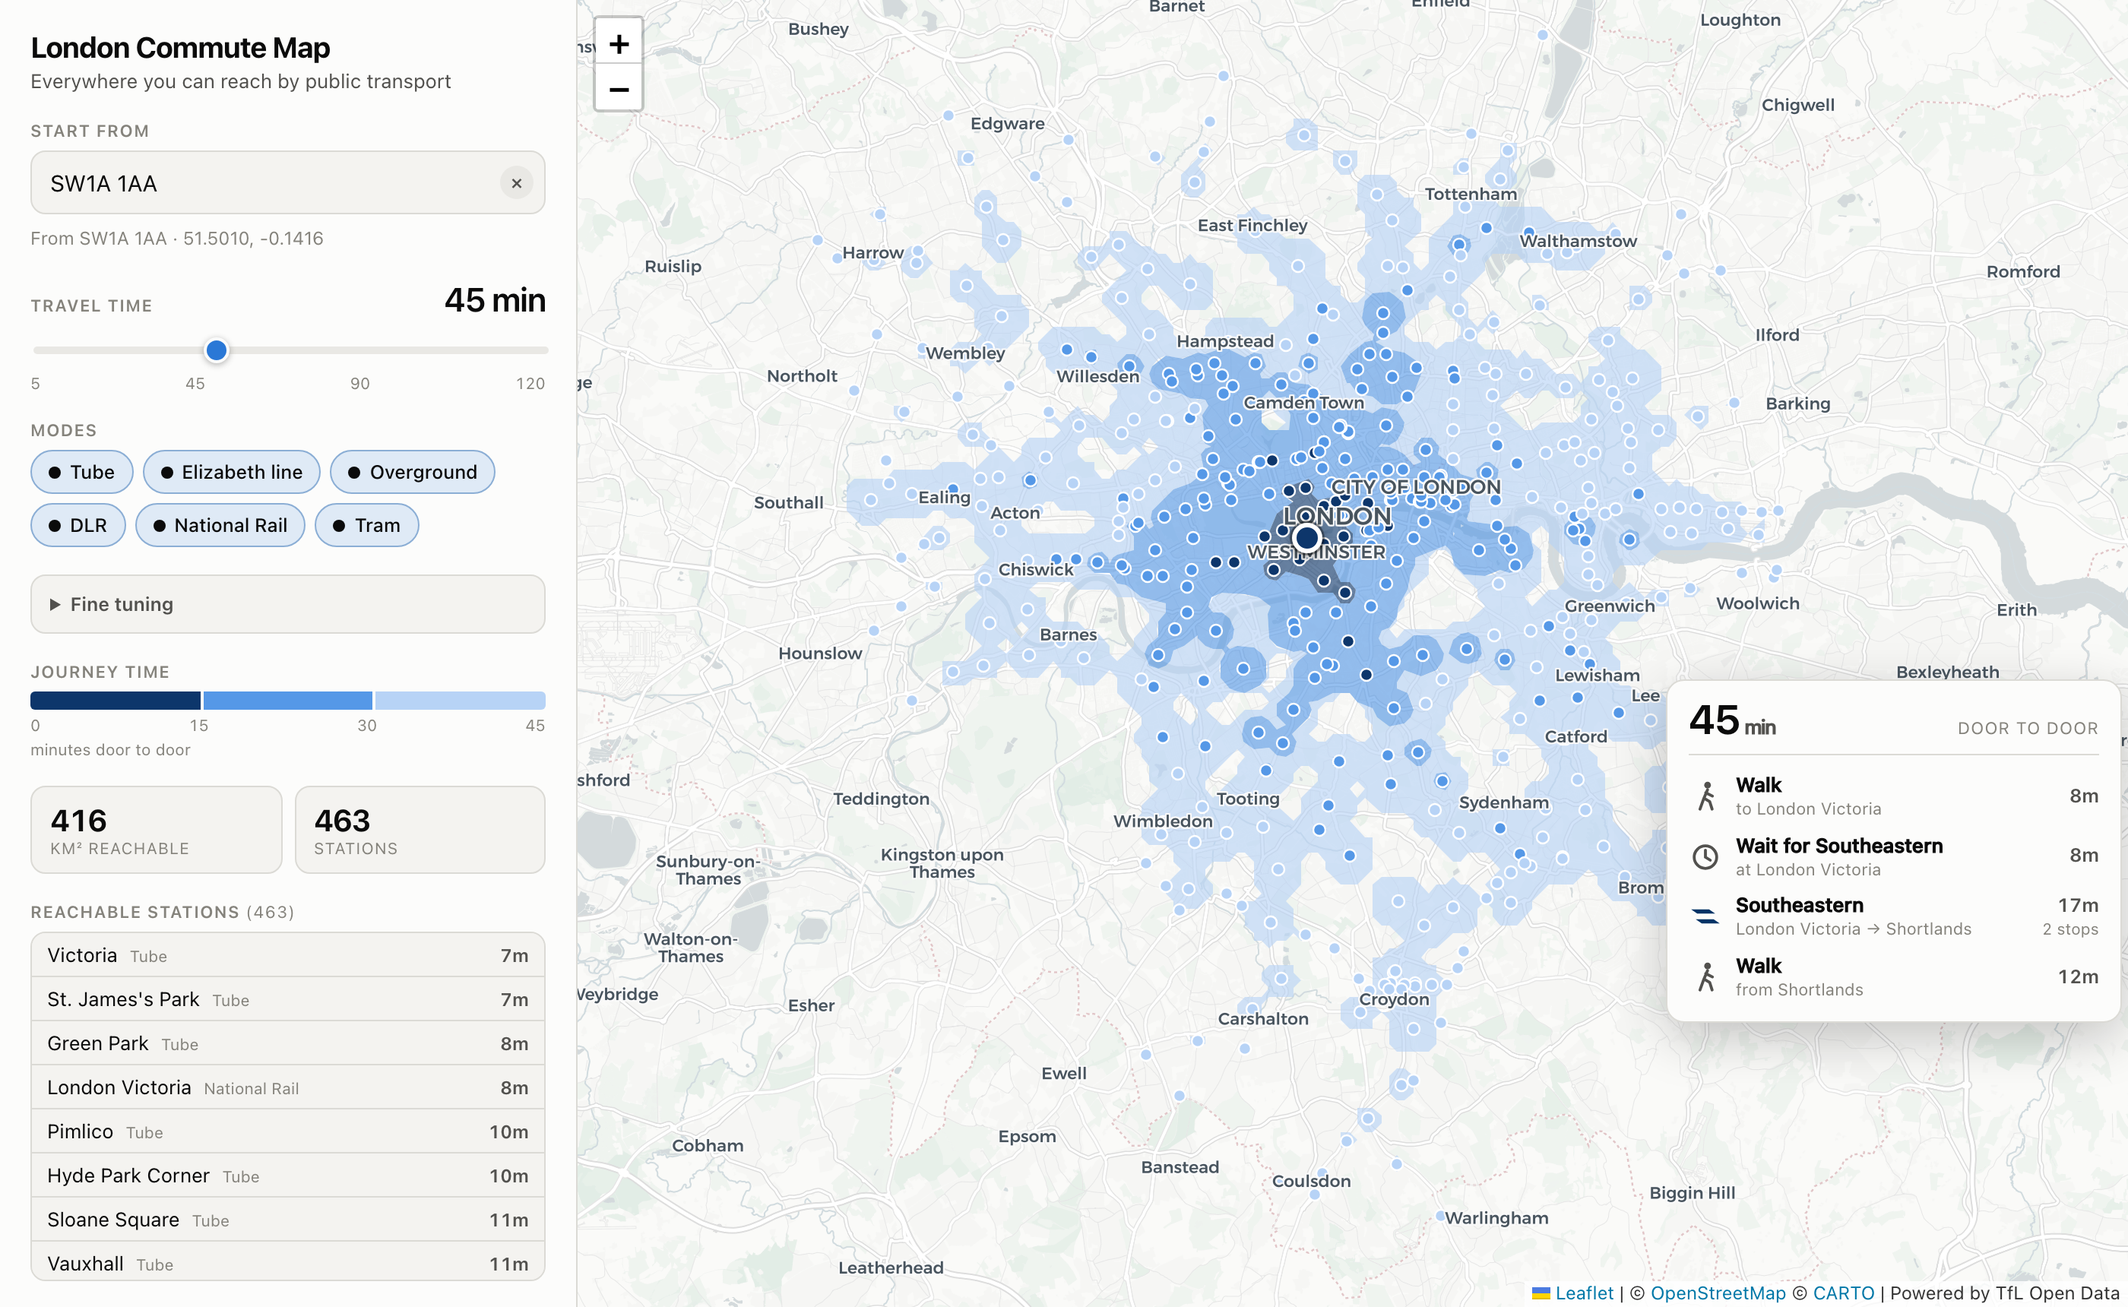
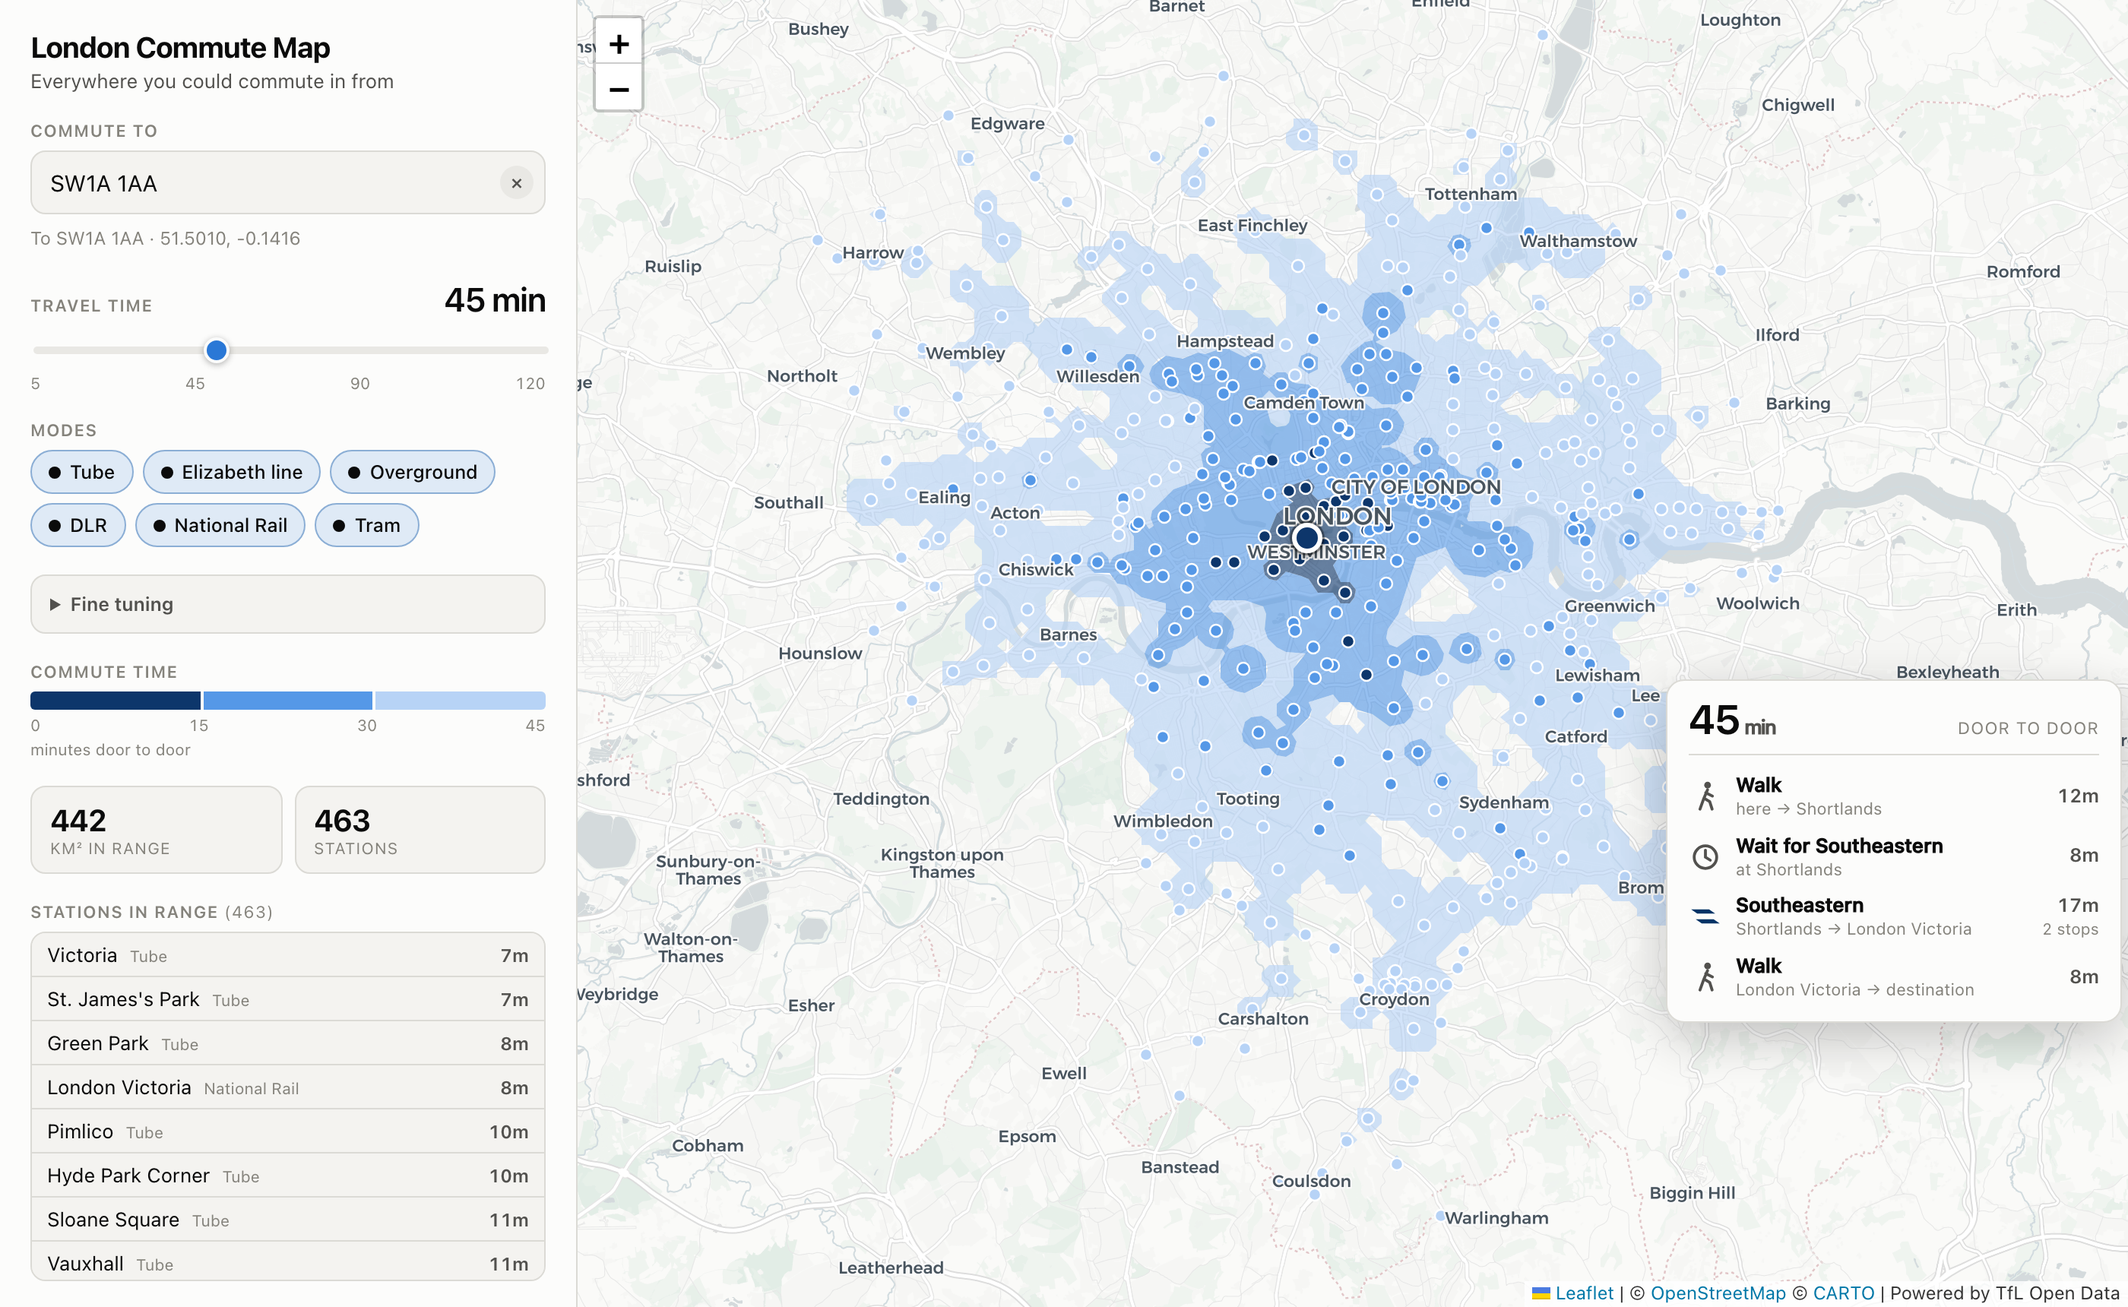
Present journeys inbound: hovered point -> your address
The framing was backwards. You pick a destination (a workplace, say) and
the map shades where you could commute in *from*, so a hovered spot's
itinerary should read from there into your address, not out of it.

The router still works outward from the destination — every edge and
interchange is symmetric, so the times are identical either way — and
probe() now flips the itinerary before returning it. Reversing order and
swapping each leg's endpoints is most of it; waits are the fiddly part,
since a wait belongs before the ride it's for and you board at the other
end of that ride once reversed, so each wait moves with its ride and
re-anchors to the flipped boarding station.

What genuinely isn't symmetric is the two walking limits, so they're now
bound to the ends a commuter thinks in: "max walk to the first stop" at
their end, "max walk at your destination" at yours. This shifts the
shaded area slightly, which is correct.

Also fixes the total drifting from the sum of legs when a sub-3-second
walk was filtered out but its time left in.

diff --git a/src/main.ts b/src/main.ts
@@ -31,10 +31,10 @@ const el = {
   serviceOut: $('service-out'),
   walk: $<HTMLInputElement>('walk'),
   walkOut: $('walk-out'),
-  access: $<HTMLInputElement>('access'),
-  accessOut: $('access-out'),
-  egress: $<HTMLInputElement>('egress'),
-  egressOut: $('egress-out'),
+  walkHome: $<HTMLInputElement>('walk-home'),
+  walkHomeOut: $('walk-home-out'),
+  walkDest: $<HTMLInputElement>('walk-dest'),
+  walkDestOut: $('walk-dest-out'),
   change: $<HTMLInputElement>('change'),
   changeOut: $('change-out'),
   showStations: $<HTMLInputElement>('show-stations'),
@@ -51,7 +51,7 @@ const el = {
 
 // ----------------------------------------------------------------- state
 
-let origin = { lat: 51.5074, lon: -0.1278, label: 'Charing Cross' }; // central London
+let destination = { lat: 51.5074, lon: -0.1278, label: 'Charing Cross' }; // central London
 let stationRefs: StationRef[] = [];
 let ready = false;
 let requestId = 0;
@@ -61,7 +61,7 @@ let pending = false;
 // ------------------------------------------------------------------- map
 
 const map = L.map('map', {
-  center: [origin.lat, origin.lon],
+  center: [destination.lat, destination.lon],
   zoom: 11,
   zoomControl: true,
   minZoom: 8,
@@ -122,21 +122,21 @@ L.tileLayer(
 
 const stationLayer = L.layerGroup().addTo(map);
 
-const originMarker = L.marker([origin.lat, origin.lon], {
+const originMarker = L.marker([destination.lat, destination.lon], {
   draggable: true,
   icon: L.divIcon({ className: '', html: '<div class="origin-pin"></div>', iconSize: [20, 20], iconAnchor: [10, 10] }),
   zIndexOffset: 1000,
 }).addTo(map);
 
-originMarker.bindTooltip('Drag me, or click anywhere on the map', { className: 'stn', direction: 'top', offset: [0, -12] });
+originMarker.bindTooltip('Your destination — drag me, or click anywhere on the map', { className: 'stn', direction: 'top', offset: [0, -12] });
 
 originMarker.on('dragend', () => {
   const { lat, lng } = originMarker.getLatLng();
-  setOrigin(lat, lng, 'Pinned location');
+  setDestination(lat, lng, 'Pinned location');
 });
 
 map.on('click', (e: L.LeafletMouseEvent) => {
-  setOrigin(e.latlng.lat, e.latlng.lng, 'Pinned location');
+  setDestination(e.latlng.lat, e.latlng.lng, 'Pinned location');
 });
 
 function cssVar(name: string) {
@@ -190,8 +190,10 @@ function options(): RouteOptions {
   return {
     maxTime: +el.time.value,
     walkSpeed: +el.walk.value,
-    maxAccessWalk: +el.access.value,
-    maxEgressWalk: +el.egress.value,
+    // The router works outward from the chosen destination, so its access walk
+    // is the one at that end and its egress walk is the commuter's home end.
+    maxAccessWalk: +el.walkDest.value,
+    maxEgressWalk: +el.walkHome.value,
     transferPenalty: +el.change.value,
     serviceFactor: SERVICE_FACTORS[+el.service.value - 1],
     modes: MODES.filter((m) => ($(`mode-${m}`) as HTMLInputElement | null)?.checked),
@@ -203,7 +205,7 @@ function schedule() {
   if (inFlight) { pending = true; return; }
   inFlight = true;
   requestId++;
-  worker.postMessage({ type: 'compute', id: requestId, origin, opt: options() });
+  worker.postMessage({ type: 'compute', id: requestId, origin: destination, opt: options() });
 }
 
 el.modes.innerHTML = MODES.map((m) => `
@@ -216,13 +218,13 @@ const syncLabels = () => {
   el.timeOut.textContent = `${el.time.value} min`;
   el.serviceOut.textContent = SERVICE_LABELS[+el.service.value - 1];
   el.walkOut.textContent = `${(+el.walk.value).toFixed(1)} km/h`;
-  el.accessOut.textContent = `${el.access.value} min`;
-  el.egressOut.textContent = `${el.egress.value} min`;
+  el.walkHomeOut.textContent = `${el.walkHome.value} min`;
+  el.walkDestOut.textContent = `${el.walkDest.value} min`;
   el.changeOut.textContent = `${el.change.value} min`;
 };
 syncLabels();
 
-for (const input of [el.time, el.service, el.walk, el.access, el.egress, el.change]) {
+for (const input of [el.time, el.service, el.walk, el.walkHome, el.walkDest, el.change]) {
   input.addEventListener('input', () => { syncLabels(); schedule(); });
 }
 el.modes.addEventListener('change', schedule);
@@ -327,13 +329,13 @@ el.clear.addEventListener('click', () => {
 function choose(p: Place) {
   el.search.value = p.label;
   closeSuggestions();
-  setOrigin(p.lat, p.lon, p.label, true);
+  setDestination(p.lat, p.lon, p.label, true);
 }
 
-function setOrigin(lat: number, lon: number, label: string, recentre = false) {
-  origin = { lat, lon, label };
+function setDestination(lat: number, lon: number, label: string, recentre = false) {
+  destination = { lat, lon, label };
   originMarker.setLatLng([lat, lon]);
-  el.originNote.textContent = `From ${label} · ${lat.toFixed(4)}, ${lon.toFixed(4)}`;
+  el.originNote.textContent = `To ${label} · ${lat.toFixed(4)}, ${lon.toFixed(4)}`;
   // Picking a new place frames its reachable area; dragging the pin or moving
   // the slider leaves the view alone, which would otherwise be jarring.
   if (recentre) fitPending = true;
@@ -356,7 +358,7 @@ function render(res: ComputeResult) {
     if (bounds.isValid()) {
       map.fitBounds(bounds, { padding: [30, 30], maxZoom: 13, animate: true });
     } else {
-      map.setView([origin.lat, origin.lon], 12, { animate: true });
+      map.setView([destination.lat, destination.lon], 12, { animate: true });
     }
   }
 
@@ -366,7 +368,7 @@ function render(res: ComputeResult) {
   drawStations(res.stations);
 
   el.stats.innerHTML = `
-    <div class="stat"><div class="v">${res.stats.areaKm2.toLocaleString()}</div><div class="k">km² reachable</div></div>
+    <div class="stat"><div class="v">${res.stats.areaKm2.toLocaleString()}</div><div class="k">km² in range</div></div>
     <div class="stat"><div class="v">${res.stats.stationCount}</div><div class="k">stations</div></div>`;
 
   el.stationCount.textContent = res.stations.length ? `(${res.stations.length})` : '';
@@ -496,11 +498,10 @@ function legRow(leg: Leg, minutes: number, compact: boolean): string {
       title = 'Change';
       sub = `at ${leg.from}`;
     } else {
+      // Legs run inbound, so a missing end is the hovered spot at the start and
+      // the chosen destination at the finish.
       title = 'Walk';
-      if (leg.to && leg.from) sub = `${leg.from} → ${leg.to}`;
-      else if (leg.to) sub = `to ${leg.to}`;
-      else if (leg.from) sub = `from ${leg.from}`;
-      else sub = 'the whole way';
+      sub = `${leg.from ?? 'here'} → ${leg.to ?? 'destination'}`;
     }
   } else if (leg.kind === 'wait') {
     title = `Wait for ${leg.lineName}`;
@@ -538,7 +539,7 @@ function drawHoverCard(res: ProbeResult) {
         <span class="ht-k">no route</span>
       </div>
       <div class="legs"><div class="leg-none">
-        No station within a ${el.egress.value} min walk of here.
+        No station within a ${el.walkHome.value} min walk of here.
       </div></div>`;
   } else {
     const total = Math.round(j.total);
@@ -577,4 +578,4 @@ function escapeHtml(s: string) {
     ({ '&': '&amp;', '<': '&lt;', '>': '&gt;', '"': '&quot;', "'": '&#39;' }[c]!));
 }
 
-setOrigin(origin.lat, origin.lon, origin.label);
+setDestination(destination.lat, destination.lon, destination.label);

diff --git a/src/engine.ts b/src/engine.ts
@@ -193,11 +193,14 @@ export class Engine {
   }
 
   /**
-   * The actual journey to a point on the map: walk, wait, ride, ..., walk.
+   * The commute from a point on the map *into* the chosen address: walk, wait,
+   * ride, ..., walk.
    *
-   * Picks whichever station gets there soonest (or pure walking, if that wins),
-   * then walks the Dijkstra predecessor chain back to the origin and groups
-   * consecutive hops on one line into a single ride leg.
+   * The router itself works outward from the address, so this picks whichever
+   * station reaches the point soonest (or pure walking, if that wins), walks the
+   * predecessor chain back, groups consecutive hops on one line into a ride, and
+   * then flips the whole thing inbound. Times are unchanged by the flip because
+   * every edge and interchange in the graph is symmetric.
    */
   probe(ptLat: number, ptLon: number, res: RouteResult, opt: RouteOptions): Journey | null {
     const mPerMin = (opt.walkSpeed * 1000) / 60;
@@ -287,11 +290,12 @@ export class Engine {
       legs.push({ kind: 'walk', minutes: bestEgress, from: this.names[bestStation], to: null });
     }
 
-    return {
-      total: bestTotal,
-      reachable: bestTotal <= opt.maxTime,
-      legs: legs.filter((l) => l.kind !== 'walk' || l.minutes > 0.05),
-    };
+    // Drop walks too short to be worth a row, then take the total from what's
+    // left — otherwise a few dropped seconds leave the legs not summing to it.
+    const kept = legs.filter((l) => l.kind !== 'walk' || l.minutes > 0.05);
+    const total = kept.reduce((sum, l) => sum + l.minutes, 0);
+
+    return { total, reachable: total <= opt.maxTime, legs: inbound(kept) };
   }
 
   /**
@@ -341,6 +345,43 @@ export class Engine {
 
     return { values, rows, cols, latStep, lonStep };
   }
+}
+
+/**
+ * Turn an outbound itinerary (address -> point) into the inbound commute
+ * (point -> address).
+ *
+ * Reversing the order and swapping each leg's endpoints is most of it. Waits are
+ * the fiddly part: a wait belongs *before* the ride it's for, and you board at
+ * the other end of that ride once it's reversed — so each wait moves with its
+ * ride and re-anchors to the reversed boarding station.
+ */
+function inbound(legs: RawLeg[]): RawLeg[] {
+  const out: RawLeg[] = [];
+
+  for (let i = legs.length - 1; i >= 0; i--) {
+    const leg = legs[i];
+
+    if (leg.kind === 'walk') {
+      out.push({ ...leg, from: leg.to, to: leg.from });
+      continue;
+    }
+
+    if (leg.kind === 'ride') {
+      const flipped: RawLeg = { ...leg, from: leg.to, to: leg.from };
+      const before = legs[i - 1];
+      if (before?.kind === 'wait') {
+        out.push({ ...before, at: flipped.from });
+        i--; // consumed alongside its ride
+      }
+      out.push(flipped);
+      continue;
+    }
+
+    out.push(leg); // a wait with no ride after it shouldn't happen, but keep it
+  }
+
+  return out;
 }
 
 export function metres(aLat: number, aLon: number, bLat: number, bLon: number) {

diff --git a/index.html b/index.html
@@ -3,8 +3,8 @@
 <head>
   <meta charset="utf-8" />
   <meta name="viewport" content="width=device-width, initial-scale=1, maximum-scale=5" />
-  <title>London Commute Map — where can I get to?</title>
-  <meta name="description" content="See everywhere in London you can reach by public transport within a given time." />
+  <title>London Commute Map — where could I commute from?</title>
+  <meta name="description" content="See everywhere in London within a given public-transport commute of any address." />
   <meta name="color-scheme" content="light dark" />
 </head>
 <body>
@@ -12,11 +12,11 @@
     <aside id="panel">
       <header class="panel-head">
         <h1>London Commute Map</h1>
-        <p class="sub">Everywhere you can reach by public transport</p>
+        <p class="sub">Everywhere you could commute in from</p>
       </header>
 
       <section class="field">
-        <label for="search">Start from</label>
+        <label for="search">Commute to</label>
         <div class="search-wrap">
           <input id="search" type="text" autocomplete="off" spellcheck="false"
                  placeholder="Postcode, station or address" />
@@ -53,12 +53,12 @@
           <input id="walk" type="range" min="3.5" max="6.5" step="0.1" value="4.8" />
         </div>
         <div class="field">
-          <div class="row"><label for="access">Max walk to first stop</label><output id="access-out">15 min</output></div>
-          <input id="access" type="range" min="2" max="30" step="1" value="15" />
+          <div class="row"><label for="walk-home">Max walk to the first stop</label><output id="walk-home-out">15 min</output></div>
+          <input id="walk-home" type="range" min="2" max="30" step="1" value="15" />
         </div>
         <div class="field">
-          <div class="row"><label for="egress">Max walk at the far end</label><output id="egress-out">12 min</output></div>
-          <input id="egress" type="range" min="2" max="30" step="1" value="12" />
+          <div class="row"><label for="walk-dest">Max walk at your destination</label><output id="walk-dest-out">12 min</output></div>
+          <input id="walk-dest" type="range" min="2" max="30" step="1" value="12" />
         </div>
         <div class="field">
           <div class="row"><label for="change">Penalty per change</label><output id="change-out">3 min</output></div>
@@ -68,14 +68,14 @@
       </details>
 
       <section class="field">
-        <label>Journey time</label>
+        <label>Commute time</label>
         <div id="legend" class="legend"></div>
       </section>
 
       <section id="stats" class="stats"></section>
 
       <section class="field">
-        <label for="station-list">Reachable stations <span id="station-count" class="muted"></span></label>
+        <label for="station-list">Stations in range <span id="station-count" class="muted"></span></label>
         <ol id="station-list" class="station-list"></ol>
       </section>
 

diff --git a/README.md b/README.md
@@ -1,16 +1,16 @@
 # London Commute Map
 
-Enter a London postcode, station or address, pick a travel time, and see every
-part of the city you could reach in that time by public transport. Drag the time
-slider and the map redraws immediately; drag the pin (or click the map) to move
-the origin.
+Give it a London postcode, station or address — a workplace, say — and a commute
+length, and it shades every part of the city you could commute in from within
+that time by public transport. Drag the time slider and the map redraws
+immediately; drag the pin (or click the map) to move the destination.
 
-**Hover anywhere** and you get the actual journey to that spot, leg by leg — walk,
-wait, ride, change, walk — with each line's roundel in its own TfL colour, the
-minutes for every leg, and a door-to-door total. The legs always add up to the
-total exactly.
+**Hover anywhere** and you get the actual commute from that spot into your
+address, leg by leg — walk, wait, ride, change, walk — with each line's roundel in
+its own TfL colour, the minutes for every leg, and a door-to-door total. The legs
+always add up to the total exactly.
 
-![The 45-minute isochrone from Westminster](docs/screenshot.png)
+![Everywhere within a 45-minute commute of Westminster](docs/screenshot.png)
 
 ## Running it
 
@@ -46,19 +46,23 @@ inter-station times by differencing the cumulative arrivals in
 **2. Routing — `src/engine.ts`.** Dijkstra over `(station, arriving line)`
 states, so staying on a train is free while changing lines costs a penalty plus
 the wait for the next service (half the line's headway). Seeded by walking from
-the origin to every station in range. ~2 ms for the whole network. It also keeps
-a predecessor per state, which is what lets a hovered point replay its journey:
-pick the station that reaches the point soonest, walk the chain back to the
-origin, and group consecutive hops on one line into a single ride leg.
+your destination to every station in range. ~2 ms for the whole network. It also
+keeps a predecessor per state, which is what lets a hovered point replay its
+commute: pick the station that reaches the point soonest, walk the chain back,
+group consecutive hops on one line into a single ride leg, then flip the whole
+itinerary inbound.
+
+Routing outward from the destination and presenting the result inbound is sound
+because every edge and interchange in the graph is symmetric — the times are the
+same in both directions. What isn't symmetric is the two walking limits, so they
+are bound to the ends a commuter thinks in: one for the walk to their first stop,
+one for the walk at the destination.
 
 **3. Rasterise and contour — `src/worker.ts`.** Every reachable station stamps a
 walking disc onto a 250 m grid over London, keeping the minimum — the
 multi-source shortest walk. `turf.isobands` then contours that grid into
 banded polygons (~40 ms). Both stages run in a Web Worker, and the Dijkstra
 result is cached, so moving the time slider only re-rasterises.
-
-Because the graph is symmetric, the area shown is equally "places you can get to
-from here" and "places you could commute here from".
 
 ## Accuracy
 
